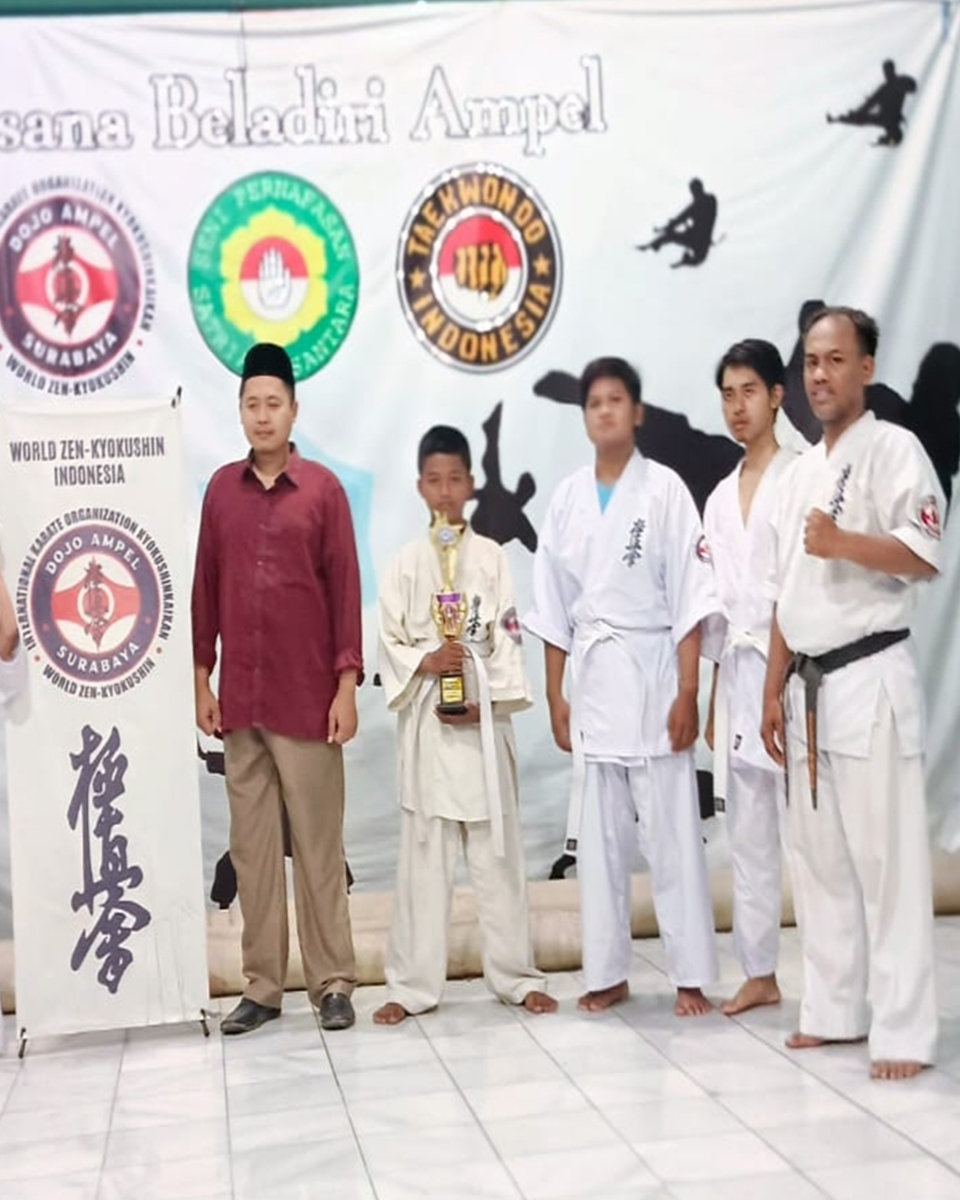
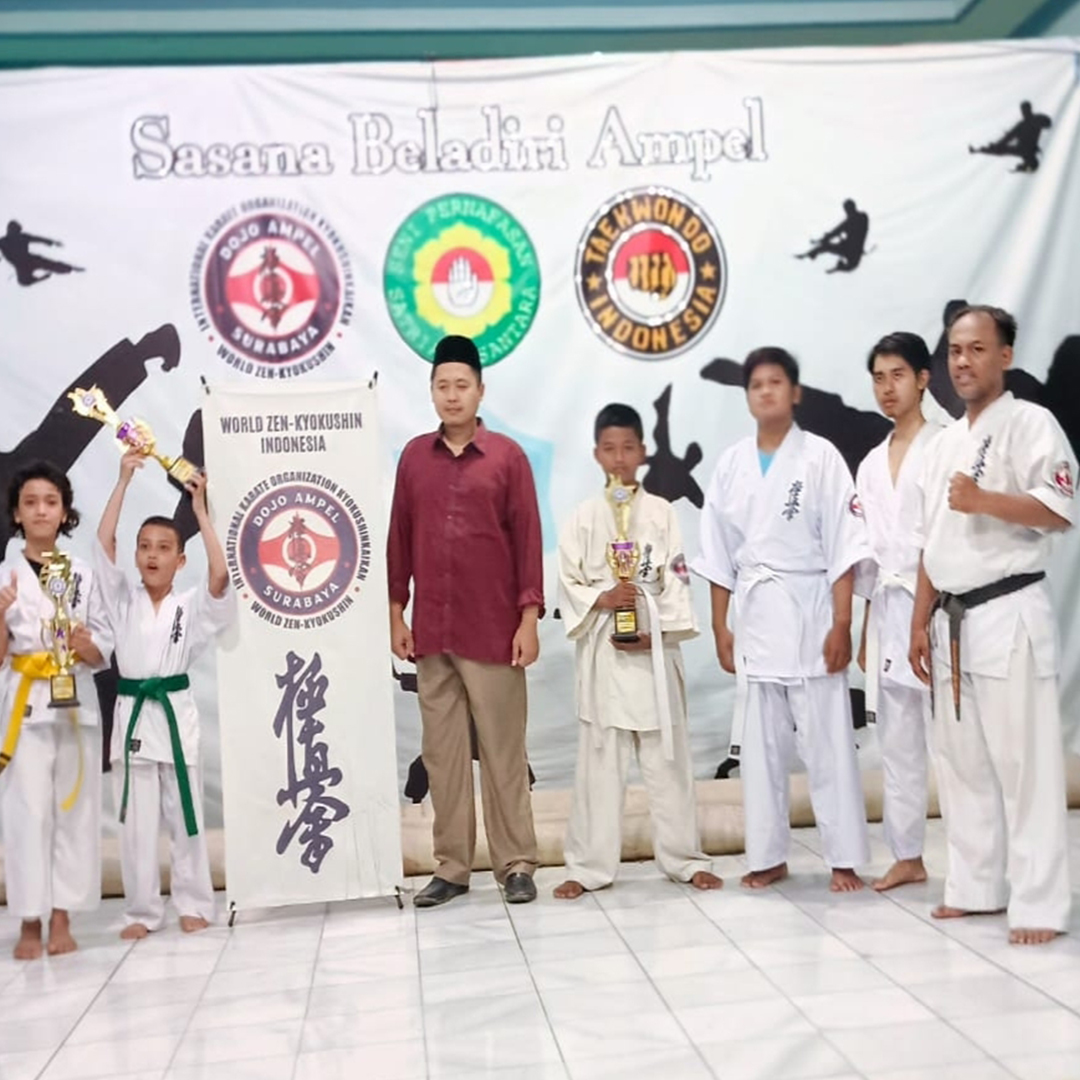
Add the new DojoAmpel Portrait's Photo, and deleting the old previous ones

diff --git a/2_styleCSS/bannerImage.css b/2_styleCSS/bannerImage.css
@@ -144,6 +144,6 @@
 /* Banner for Mobile View */
 @media screen and (max-width: 768px) {
     .foto-dojoAmpel {
-        background-image: url('../1_main_page/img/8-carousel-dojo/1-wzki-ampel/dojoAmpel1_portrait2.jpg');
+        background-image: url('../1_main_page/img/8-carousel-dojo/1-wzki-ampel/dojoAmpel1_portrait.jpg');
     }
 }
